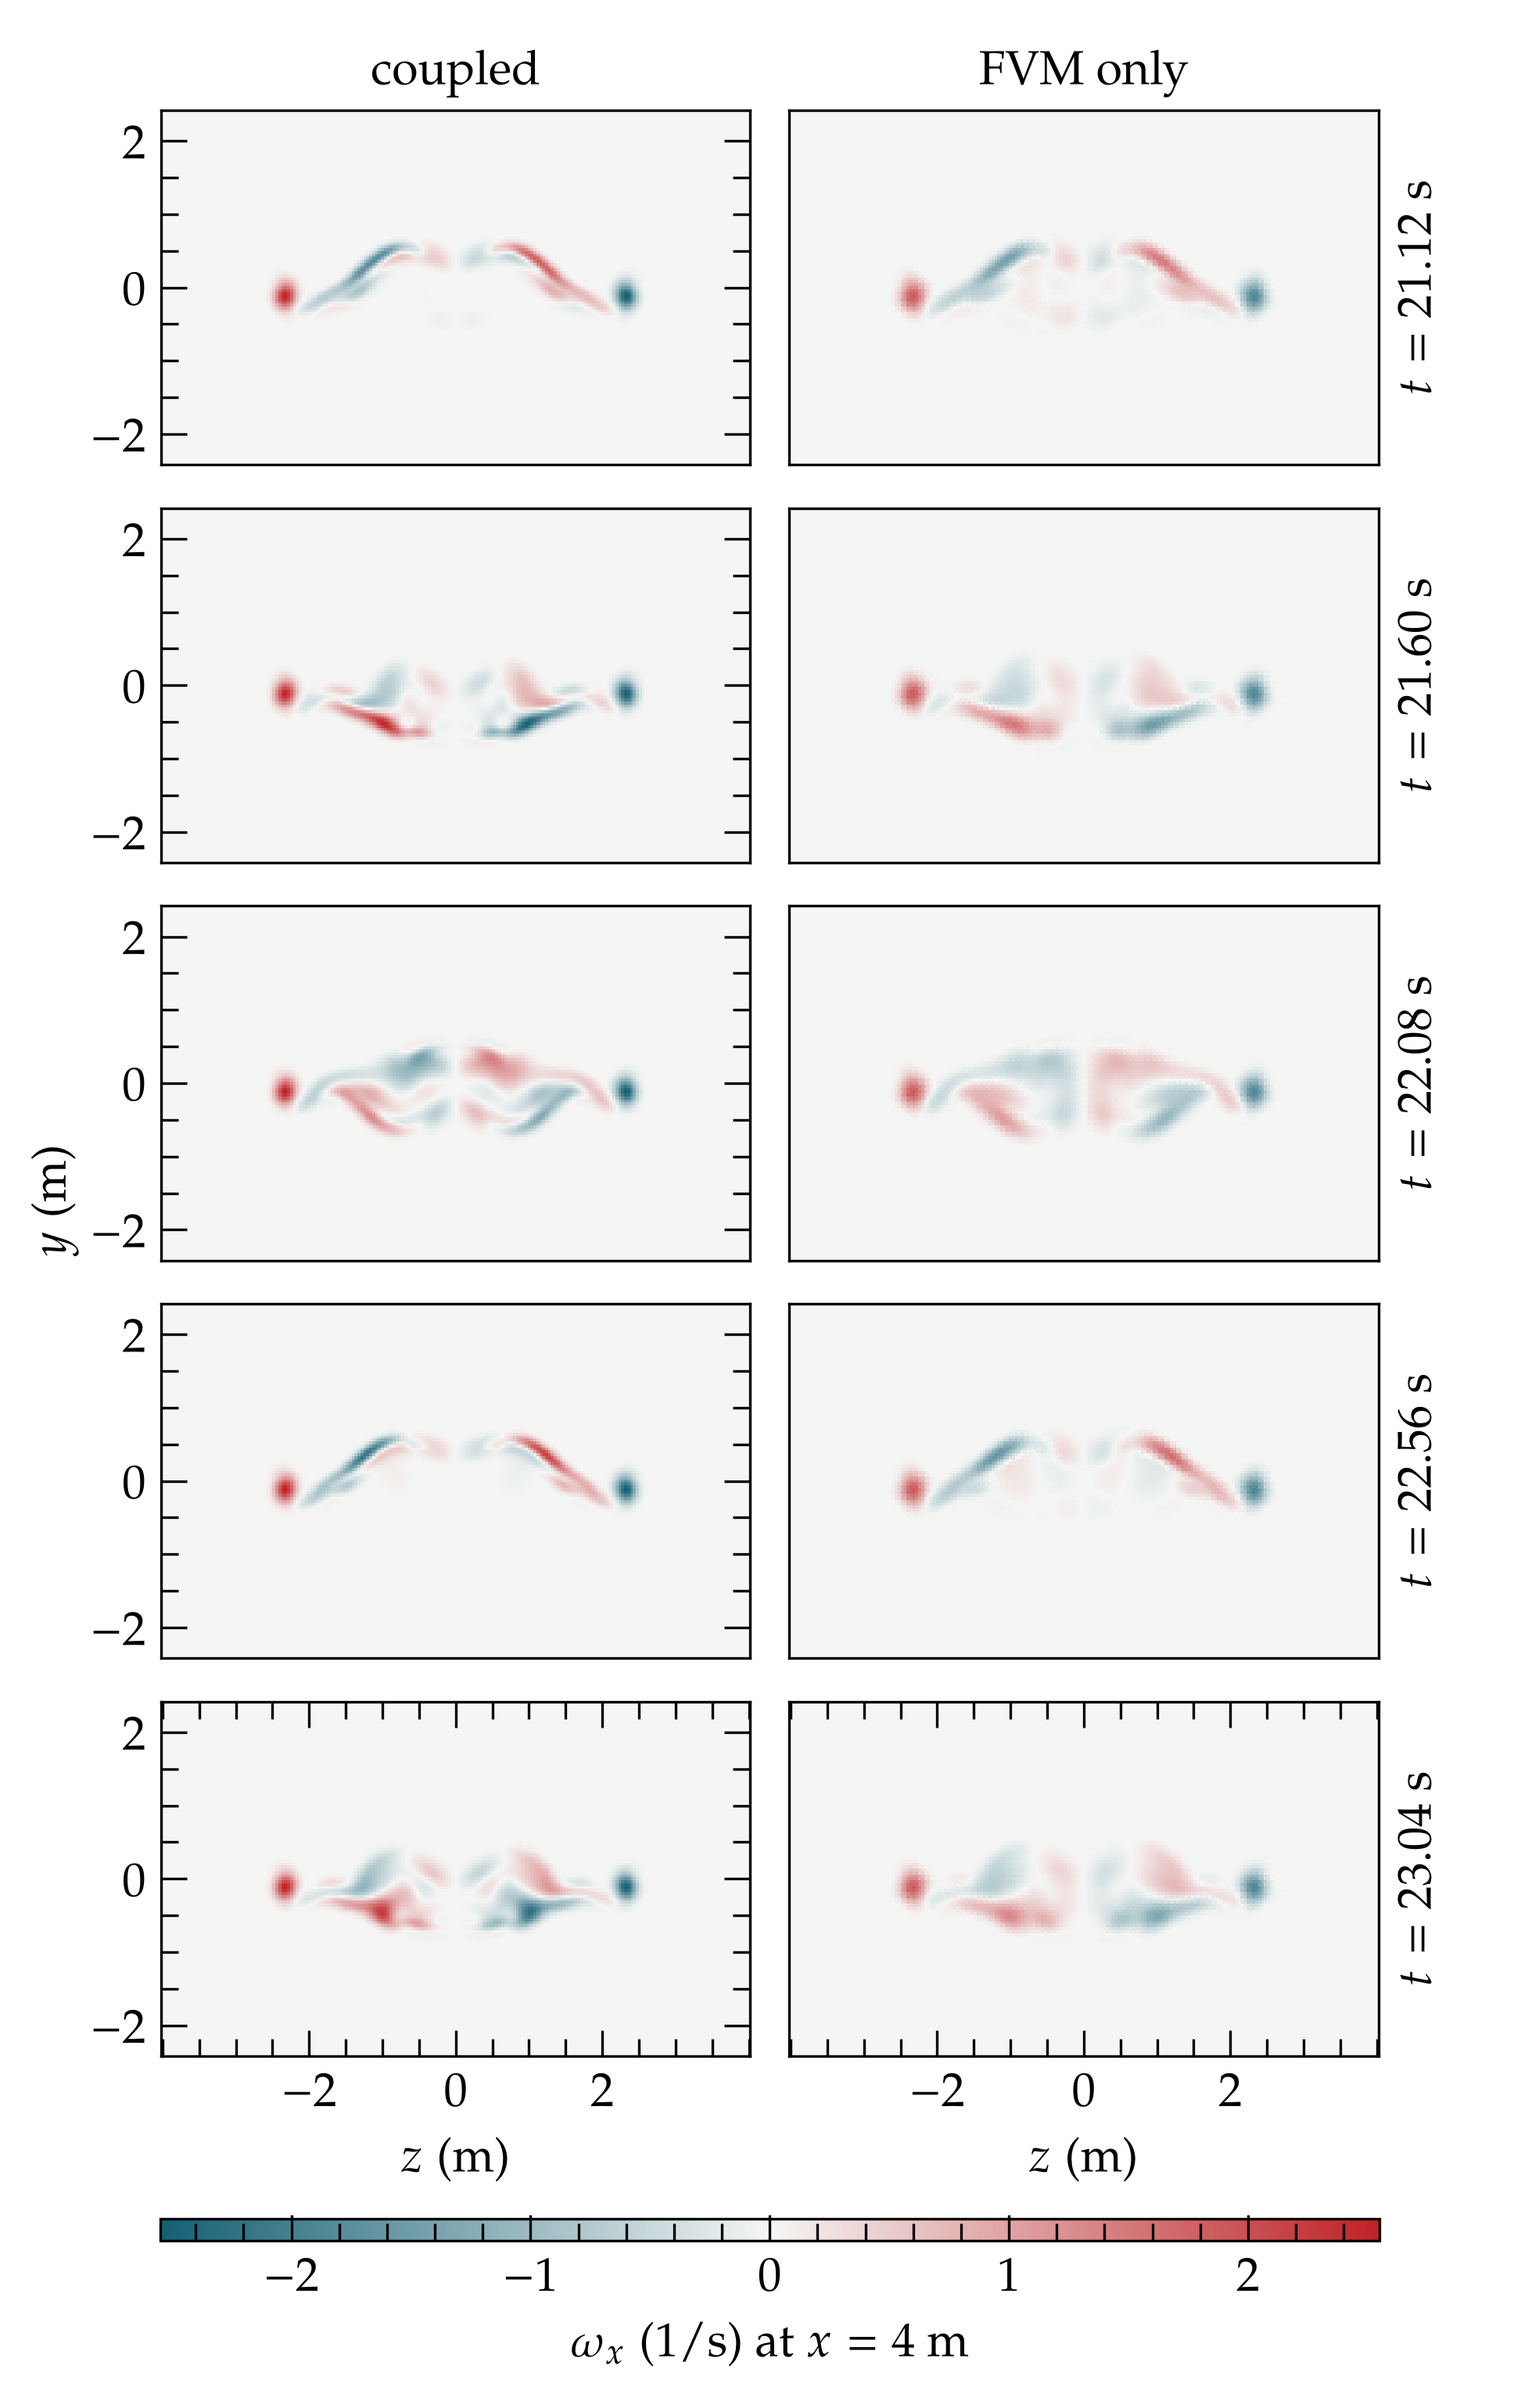
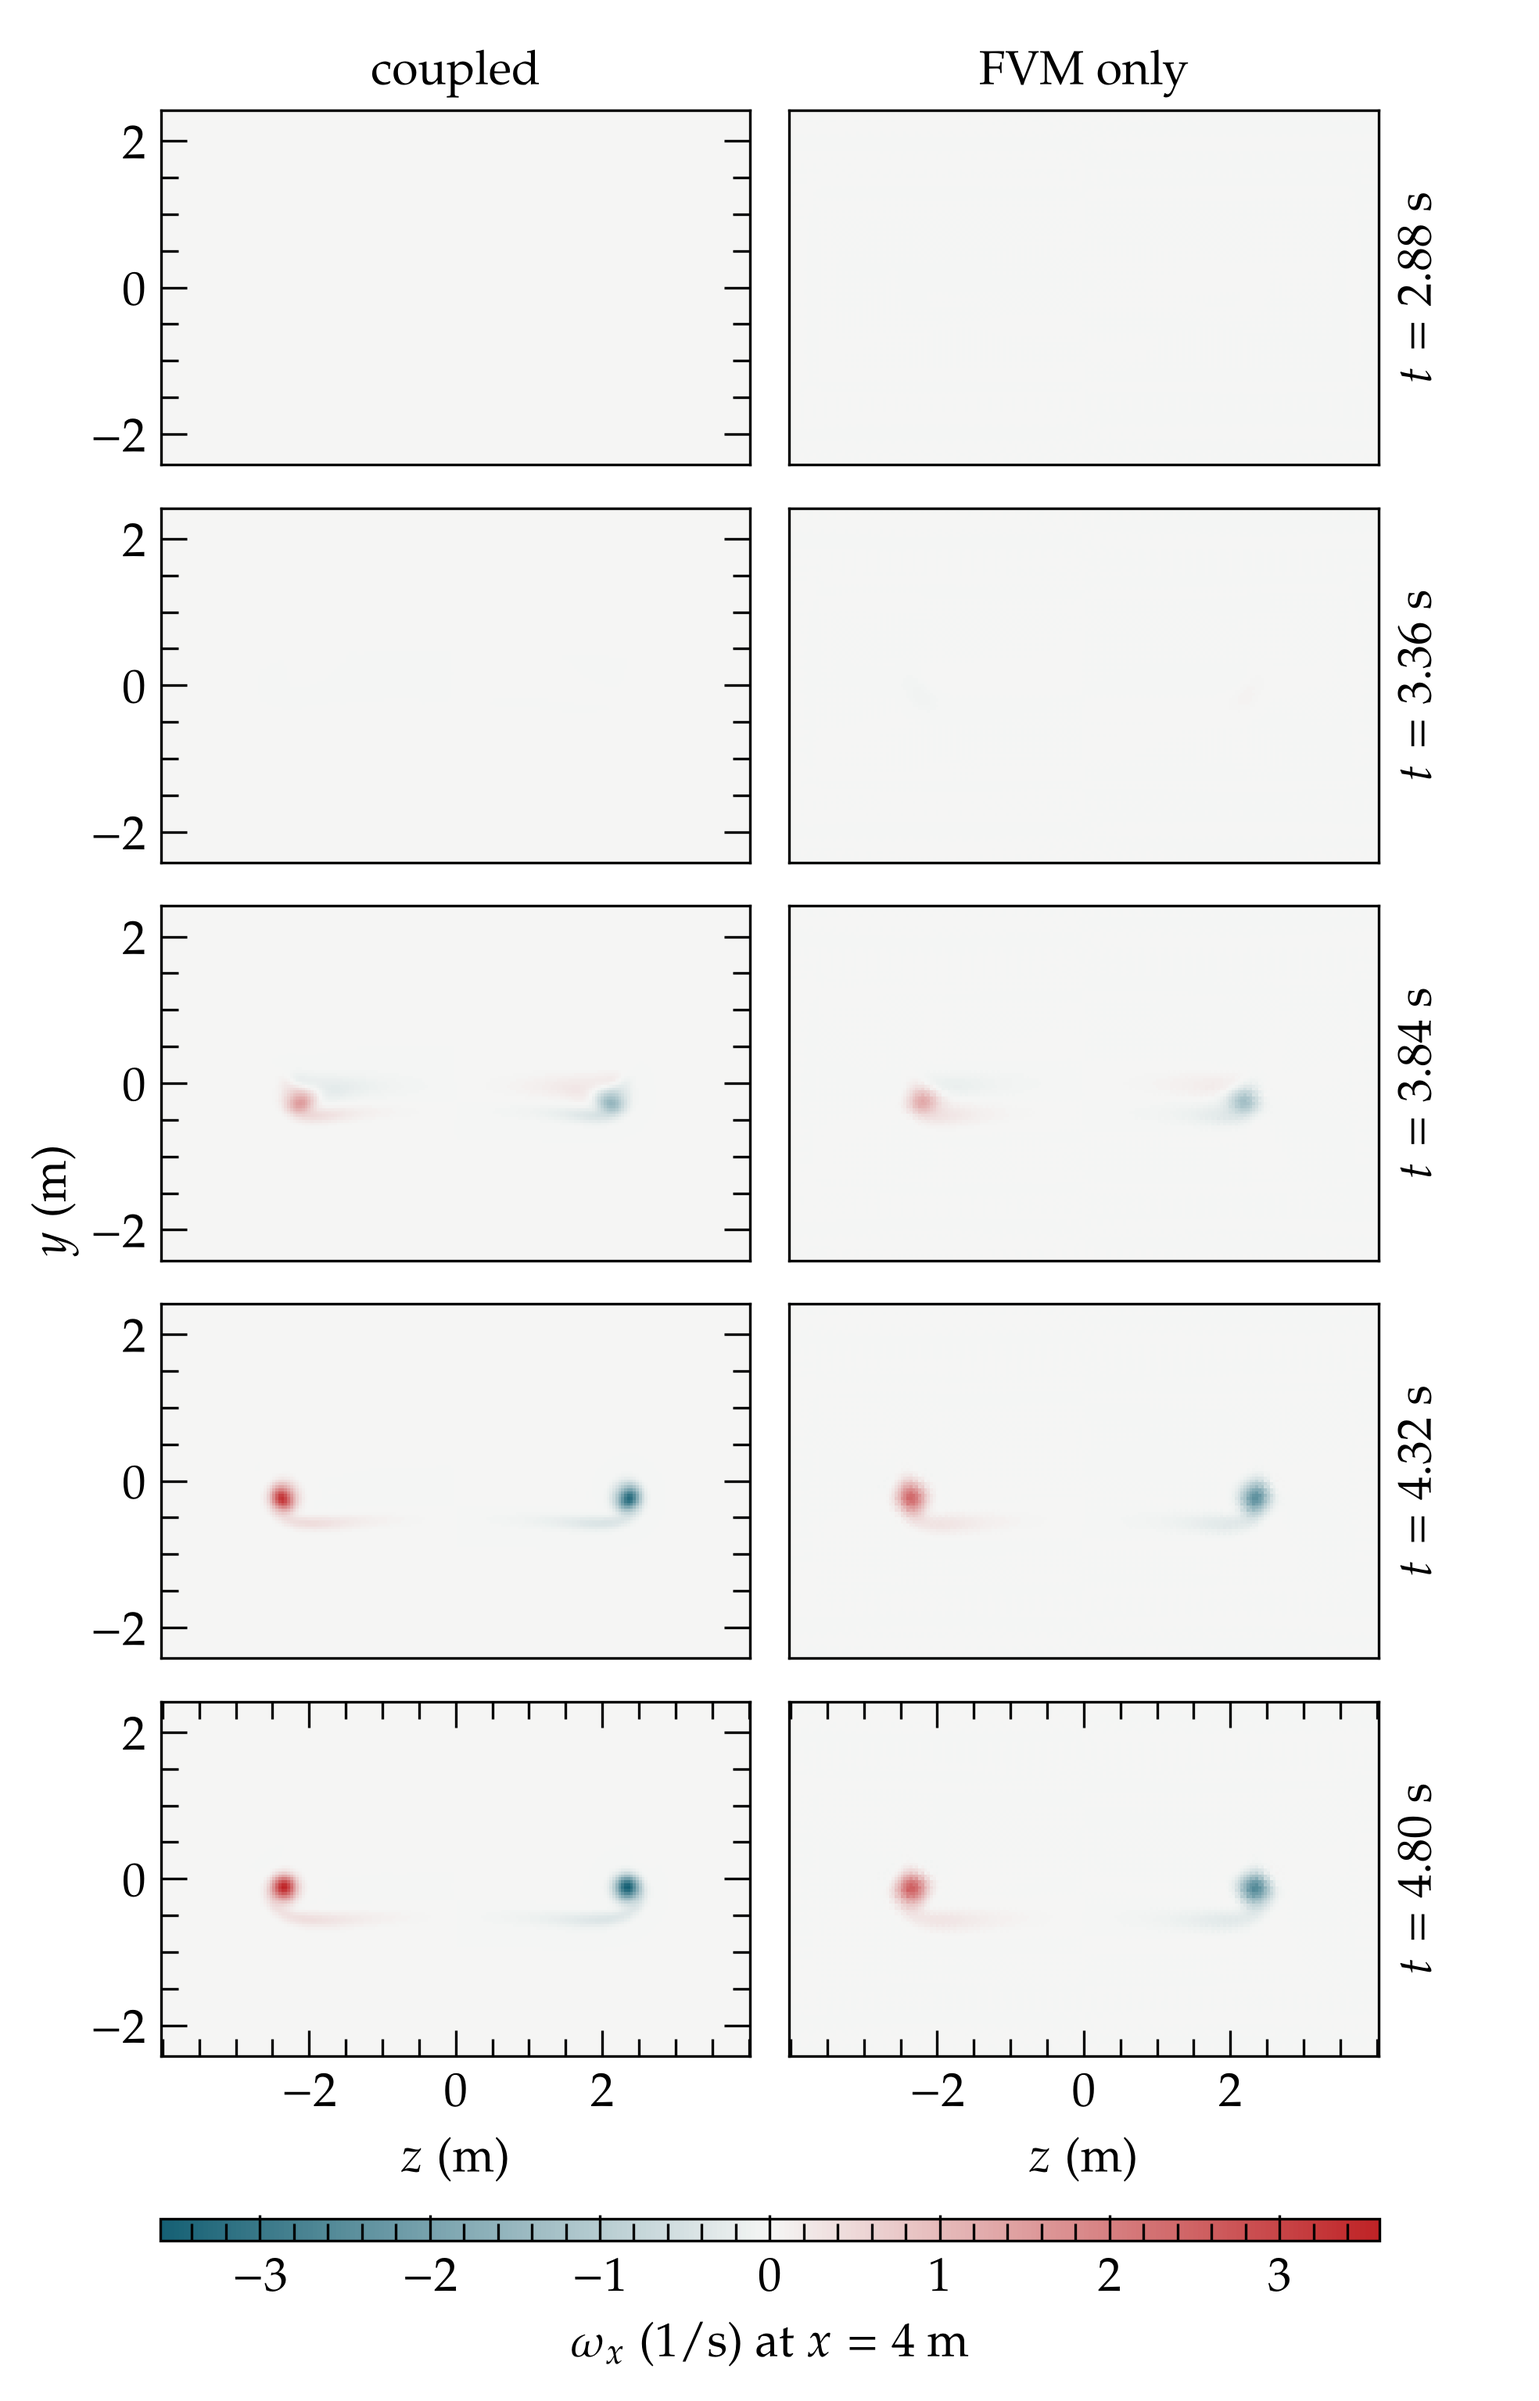
Find the starting-vortex passage in the first excursion through each plane

diff --git a/tutorials/coupled_fvm_vpm/03_naca4412_flow/assets/plot_starting_vortex.py b/tutorials/coupled_fvm_vpm/03_naca4412_flow/assets/plot_starting_vortex.py
@@ -11,7 +11,8 @@ At every saved state of the coupled run (solution/coupled/coupled_*) and of the 
 Each state is cached in samples/starting_vortex/, so a rerun only adds new states. Writes PNG
 figures to figures/starting_vortex/:
 - x<plane>_omega_z, x<plane>_omega_x: the maps at the five common states around the passage of
-  the starting vortex, coupled above reference;
+  the starting vortex (the first excursion of the integrated spanwise vorticity through the
+  plane, see starting_passage), coupled above reference;
 - histories: through each plane, the integrated spanwise vorticity (the starting vortex) and the
   streamwise circulation of each half-plane (the tip vortex of each wing half), against time.
 
@@ -53,6 +54,8 @@ SPACING = 0.04  # m, plane grid
 FIT_CELLS = 20  # reference cells of each affine velocity fit
 KERNEL_SUPPORT = 5.0  # core radii within which a particle contributes
 SHOWN_STATES = 5  # maps around the passage of the starting vortex
+ARRIVAL_FRACTION = 0.1  # |int omega_z| / its run maximum at which the starting vortex has arrived
+UNSTEADY_FRACTION = 0.25  # |int omega_z| / the passage peak from which the later wake is unsteady
 
 Y = np.linspace(
     CROSS_BOUNDS[0], CROSS_BOUNDS[1], round((CROSS_BOUNDS[1] - CROSS_BOUNDS[0]) / SPACING) + 1
@@ -215,15 +218,41 @@ def measures(states):
     return out
 
 
+def starting_passage(integral):
+    """Peak index of the starting vortex in a series of integrated omega_z, and the index at which
+    the later unsteady wake begins (None if it does not).
+
+    The starting vortex is the first excursion of the series: from the first value above
+    ARRIVAL_FRACTION of the run's largest |value|, while the sign stays that of the arrival. Its
+    peak is the largest |value| of that excursion. The wake after it is unsteady from the first
+    value whose magnitude exceeds UNSTEADY_FRACTION of that peak again.
+    """
+    integral = np.asarray(integral)
+    magnitude = np.abs(integral)
+    arrived = np.flatnonzero(magnitude > ARRIVAL_FRACTION * magnitude.max())
+    if not len(arrived):
+        return None, None
+    first = arrived[0]
+    sign = np.sign(integral[first])
+    end = first
+    while end + 1 < len(integral) and np.sign(integral[end + 1]) == sign:
+        end += 1
+    peak = first + int(np.argmax(magnitude[first : end + 1]))
+    later = np.flatnonzero(magnitude[end + 1 :] > UNSTEADY_FRACTION * magnitude[peak])
+    return peak, (end + 1 + later[0] if len(later) else None)
+
+
 def passage_states(reference, coupled, index):
-    """The common times around the largest |integrated omega_z| of the reference on a plane."""
+    """The common times around the passage of the starting vortex through a plane, in the reference."""
     common = sorted(
         set(np.round([t for t, _ in reference], 6)) & set(np.round([t for t, _ in coupled], 6))
     )
     if not common:
         return []
-    values = {round(t, 6): abs(f[index][2].sum()) for t, f in reference}
-    peak = common.index(max(common, key=lambda t: values[t]))
+    values = {round(t, 6): f[index][2].sum() for t, f in reference}
+    peak, _ = starting_passage([values[t] for t in common])
+    if peak is None:
+        return []
     start = min(max(0, peak - SHOWN_STATES // 2), max(0, len(common) - SHOWN_STATES))
     return common[start : start + SHOWN_STATES]
 
@@ -341,7 +370,8 @@ def history_figure(coupled, reference):
 
 
 def report(coupled, reference):
-    """Both runs at their common times: the passage of the starting vortex and the tip circulation."""
+    """Both runs at their common times: the passage of the starting vortex, the later unsteady wake
+    and the tip circulation."""
     for x in PLANES:
         c, r = coupled[x], reference[x]
         times = sorted(set(np.round(c["time"], 6)) & set(np.round(r["time"], 6)))
@@ -349,14 +379,28 @@ def report(coupled, reference):
             continue
         ci = [int(np.argmin(np.abs(c["time"] - t))) for t in times]
         ri = [int(np.argmin(np.abs(r["time"] - t))) for t in times]
-        passage = int(np.argmax(np.abs(r["omega_z_integral"][ri])))
+        passage, unsteady = starting_passage(r["omega_z_integral"][ri])
         last = -1
+        if passage is None:
+            print(f"x = {x:g} m: the starting vortex has not reached the plane")
+            continue
         print(
             f"x = {x:g} m, passage at t = {times[passage]:.2f} s: int omega_z coupled "
             f"{c['omega_z_integral'][ci[passage]]:+.3f}, reference "
             f"{r['omega_z_integral'][ri[passage]]:+.3f} m^2/s; peak omega_z coupled "
             f"{c['omega_z_peak'][ci[passage]]:+.2f}, reference {r['omega_z_peak'][ri[passage]]:+.2f} 1/s"
         )
+        if unsteady is not None:
+            late_c = c["omega_z_integral"][ci[unsteady:]]
+            late_r = r["omega_z_integral"][ri[unsteady:]]
+            big_c, big_r = int(np.argmax(np.abs(late_c))), int(np.argmax(np.abs(late_r)))
+            print(
+                f"x = {x:g} m, unsteady wake from t = {times[unsteady]:.2f} s ({len(late_r)} states): "
+                f"rms int omega_z coupled {np.sqrt(np.mean(late_c**2)):.3f}, reference "
+                f"{np.sqrt(np.mean(late_r**2)):.3f} m^2/s; largest |int omega_z| coupled "
+                f"{late_c[big_c]:+.3f} at t = {times[unsteady + big_c]:.2f} s, reference "
+                f"{late_r[big_r]:+.3f} at t = {times[unsteady + big_r]:.2f} s"
+            )
         print(
             f"x = {x:g} m, t = {times[last]:.2f} s: tip circulation z>0 coupled "
             f"{c['circulation_upper'][ci[last]]:+.3f}, reference {r['circulation_upper'][ri[last]]:+.3f}; "
